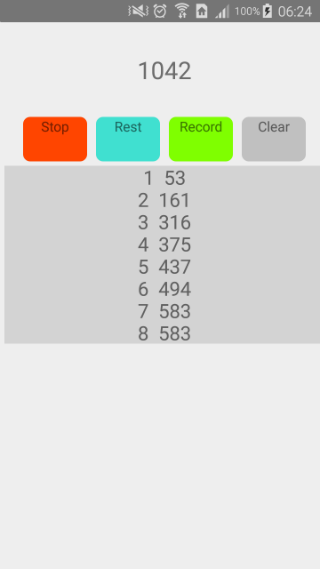
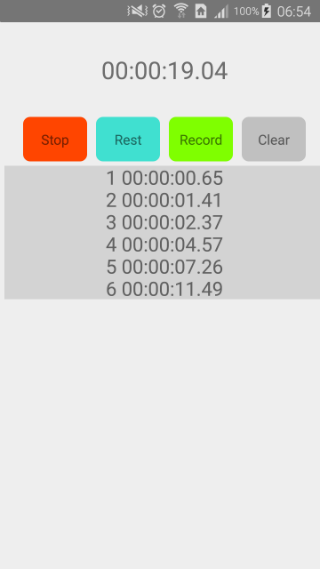
Update simple timer

diff --git a/view/D1_timer.js b/view/D1_timer.js
@@ -30,7 +30,7 @@ class D1_timer extends Component {
             return <View key={`item${i}`}>
                 <TouchableOpacity activeOpacity={0.5} onPress={this.onRecordItemPress}>
                     <View style={styles.textRecordStyle}>
-                        <Text style={styles.recordTextStyle}>{i + 1}  {item}</Text>
+                        <Text style={styles.recordTextStyle}>{i + 1} {this.formatTime(item)}</Text>
                     </View>
                 </TouchableOpacity>
             </View>
@@ -69,12 +69,13 @@ class D1_timer extends Component {
     render() {
         return <View style={styles.container}>
             <View style={styles.displayContainer}>
-                <Text ref='display' style={styles.displayText}>{this.state.timerNumber}</Text>
+                <Text ref='display' style={styles.displayText}>{this.formatTime(this.state.timerNumber)}</Text>
             </View>
 
             <View style={styles.buttonContainer}>
                 <TouchableOpacity activeOpacity={0.5} onPress={this.onButtonPress.bind(this,'start')}>
-                    <View style={[styles.buttonWrapperStyle,{backgroundColor:this.state.isStart ? '#FF4500' : '#FFA500'}]}>
+                    <View
+                        style={[styles.buttonWrapperStyle,{backgroundColor:this.state.isStart ? '#FF4500' : '#FFA500'}]}>
                         <Text style={styles.buttonStyle}>{this.state.isStart ? 'Stop' : 'Start' }</Text>
                     </View>
                 </TouchableOpacity>
@@ -101,18 +102,21 @@ class D1_timer extends Component {
         </View>
     }
 
-    /* formatTime = (t)=> {
-     let msec = appendZero(t % 100);
-     let sec = appendZero(parseInt((t / 100) % 60));
-     let min = appendZero(parseInt((t / 6000) % 60));
-     let hour = appendZero(parseInt(t / 360000));
-     return `${hour}:${min}:${sec}.${msec}`;
-     }*/
+
+    formatTime = (t)=> {
+        let msec = appendZero(t % 100);
+        let sec = appendZero(parseInt((t / 100) % 60));
+        let min = appendZero(parseInt((t / 6000) % 60));
+        let hour = appendZero(parseInt(t / 360000));
+        return `${hour}:${min}:${sec}.${msec}`;
+    }
 
     componentWillUnmount = ()=> {
         clearInterval(this.interval);
     }
 }
+
+const appendZero = n => n.toLocaleString({}, {minimumIntegerDigits: 2});
 
 let styles = StyleSheet.create({
     container: {
@@ -145,7 +149,8 @@ let styles = StyleSheet.create({
         width: ScreenWidth / 5,
         backgroundColor: 'orange',
         margin: 5,
-        borderRadius: 8
+        borderRadius: 8,
+        justifyContent: 'center'
     },
 
     buttonStyle: {
@@ -155,11 +160,11 @@ let styles = StyleSheet.create({
     textRecordStyle: {
         flexDirection: 'column',
         height: 25,
-        justifyContent: 'center',
+        justifyContent: 'center'
 
     },
 
-    recordContainer:{
+    recordContainer: {
         width: ScreenWidth,
         backgroundColor: '#D3D3D3',
         borderRadius: 10
